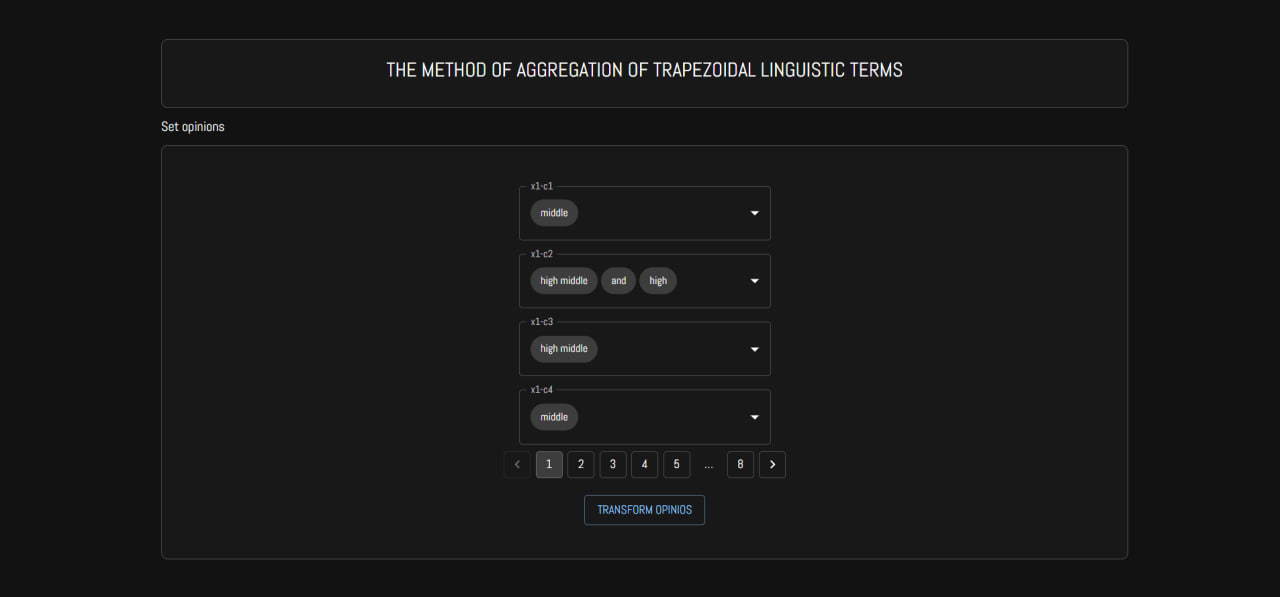
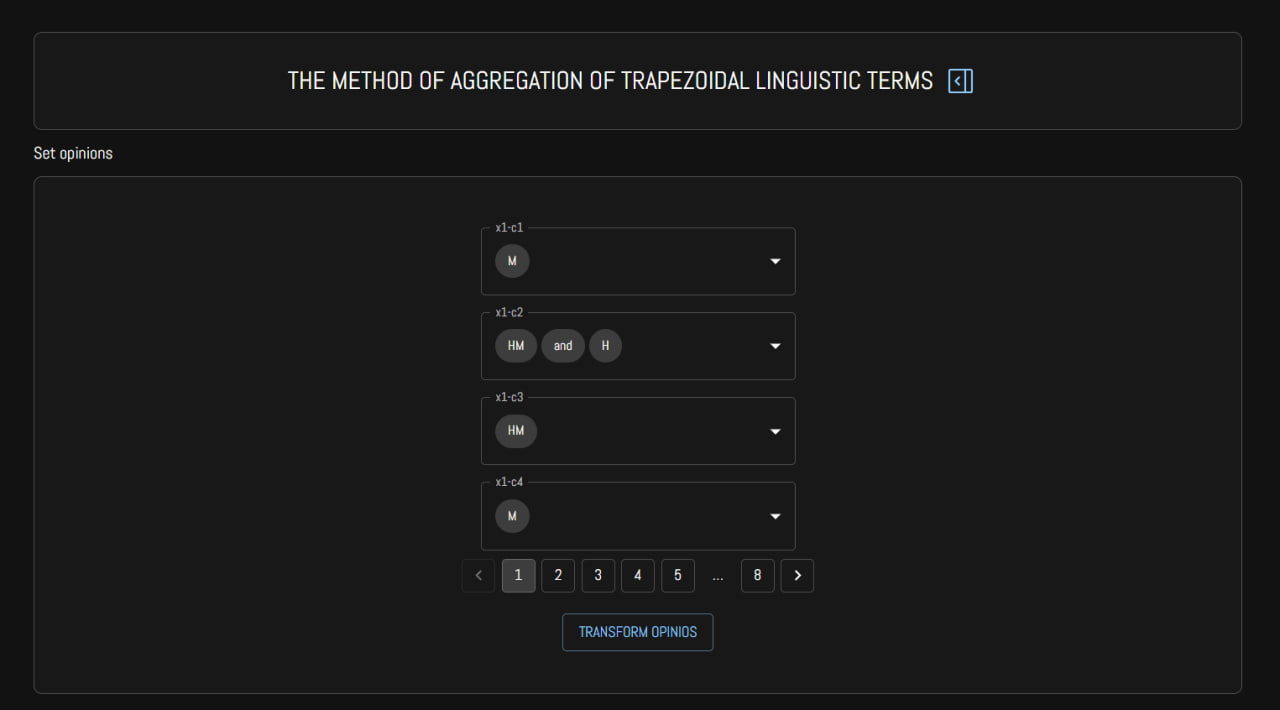
Fixed naming for interval estimates

diff --git a/src/App.js b/src/App.js
@@ -156,23 +156,26 @@ function App() {
         <Title setIsConfigurationPanelOpen={setIsConfigurationPanelOpen} />
         {isConfigurationFinished && <Typography>Set opinions</Typography>}
         {!isConfigurationFinished && (
-          <Box
-            sx={{
-              border: "1px dotted #90caf9",
-              borderRadius: 2,
-              backgroundColor: "#181819",
-              textAlign: "center",
-              padding: "40px",
-            }}
-          >
-            <Button
-              variant="outlined"
-              onClick={() => setIsConfigurationPanelOpen(true)}
+          <>
+            <Box
+              sx={{
+                border: "1px dotted #90caf9",
+                borderRadius: 2,
+                backgroundColor: "#181819",
+                textAlign: "center",
+                padding: "40px",
+              }}
             >
-              Let`s start
-            </Button>
-          </Box>
+              <Button
+                variant="outlined"
+                onClick={() => setIsConfigurationPanelOpen(true)}
+              >
+                Let`s start
+              </Button>
+            </Box>
+          </>
         )}
+
         {isConfigurationFinished && (
           <>
             <ExpertOpinions

diff --git a/src/components/ConfigurationPanel/ConfigurationPanel.js b/src/components/ConfigurationPanel/ConfigurationPanel.js
@@ -145,8 +145,6 @@ export default function ConfigurationPanel({
     handleConfigurationMenuStepNext();
   };
 
-  //fix set names
-
   const generateExpertOpinions = () => {
     const generatedExpertOpinions = [];
     for (let i = 0; i < numbers.alternatives; i++) {
@@ -166,7 +164,7 @@ export default function ConfigurationPanel({
   };
   const generateLinguisticTerms = () => {
     const generatedLinguisticTerms = [];
-    //Fixed  confines type
+
     for (let i = 0; i < numbers.linguisticTerms; i++) {
       generatedLinguisticTerms.push({
         linguisticTerm: names.linguisticTerms[i],

diff --git a/src/components/IntervalEstimates/IntervalEstimates.js b/src/components/IntervalEstimates/IntervalEstimates.js
@@ -15,8 +15,8 @@ import configurationData from "../../DataTemplate/configurationData";
 function IntervalEstimates({ intervalEstimates, shortNames }) {
   // Organize the data into a table structure
   const tableData = {};
-  //FIX GETTING DATA FROM DATA TEMPLATE
-  const criteriaList = ["a/c", ...shortNames.criteria];
+
+  const criteriaList = ["x/c", ...shortNames.criteria];
 
   intervalEstimates?.forEach((data) => {
     const { alternative, criteria, selectedIntervalsEstimate } = data;

diff --git a/src/components/ExpertOpinions/ExpertOpinions.js b/src/components/ExpertOpinions/ExpertOpinions.js
@@ -4,7 +4,7 @@ import Button from "@mui/material/Button";
 import ExpertOpinionsChip from "../ExpertOpinionsChip/ExpertOpinionsChip";
 import Pagination from "@mui/material/Pagination";
 // import linguisticTermsNormalized from "../../DataTemplate/linguisticTermsNormalized";
-//FIX ADDING CONFINES WITH NORMALIZED DATA
+
 const getValuesBetweenTerms = (terms, data) => {
   // Extract the start and end values from the terms array
   const [start, end] = terms.map((term) => {

diff --git a/src/components/TrapezoidalExpertOpinions/TrapezoidalExpertOpinions.js b/src/components/TrapezoidalExpertOpinions/TrapezoidalExpertOpinions.js
@@ -14,7 +14,7 @@ import configurationData from "../../DataTemplate/configurationData";
 function TrapezoidalExpertOpinions({ trapezoidalExpertOpinions, shortNames }) {
   // Organize the data into a table structure
   const tableData = {};
-  //FIX GETTING DATA FROM DATA TEMPLATE
+
   const criteriaList = ["x/c", ...shortNames.criteria];
 
   trapezoidalExpertOpinions?.forEach((data) => {

diff --git a/src/components/IntervalExpertOpinions/IntervalExpertOpinions.js b/src/components/IntervalExpertOpinions/IntervalExpertOpinions.js
@@ -12,7 +12,6 @@ import {
 
 import configurationData from "../../DataTemplate/configurationData";
 
-//FIX GETTING DATA FROM DATA TEMPLATE
 function IntervalExpertOpinions({ intervalExpertOpinions, shortNames }) {
   // Organize the data into a table structure
   const tableData = {};
